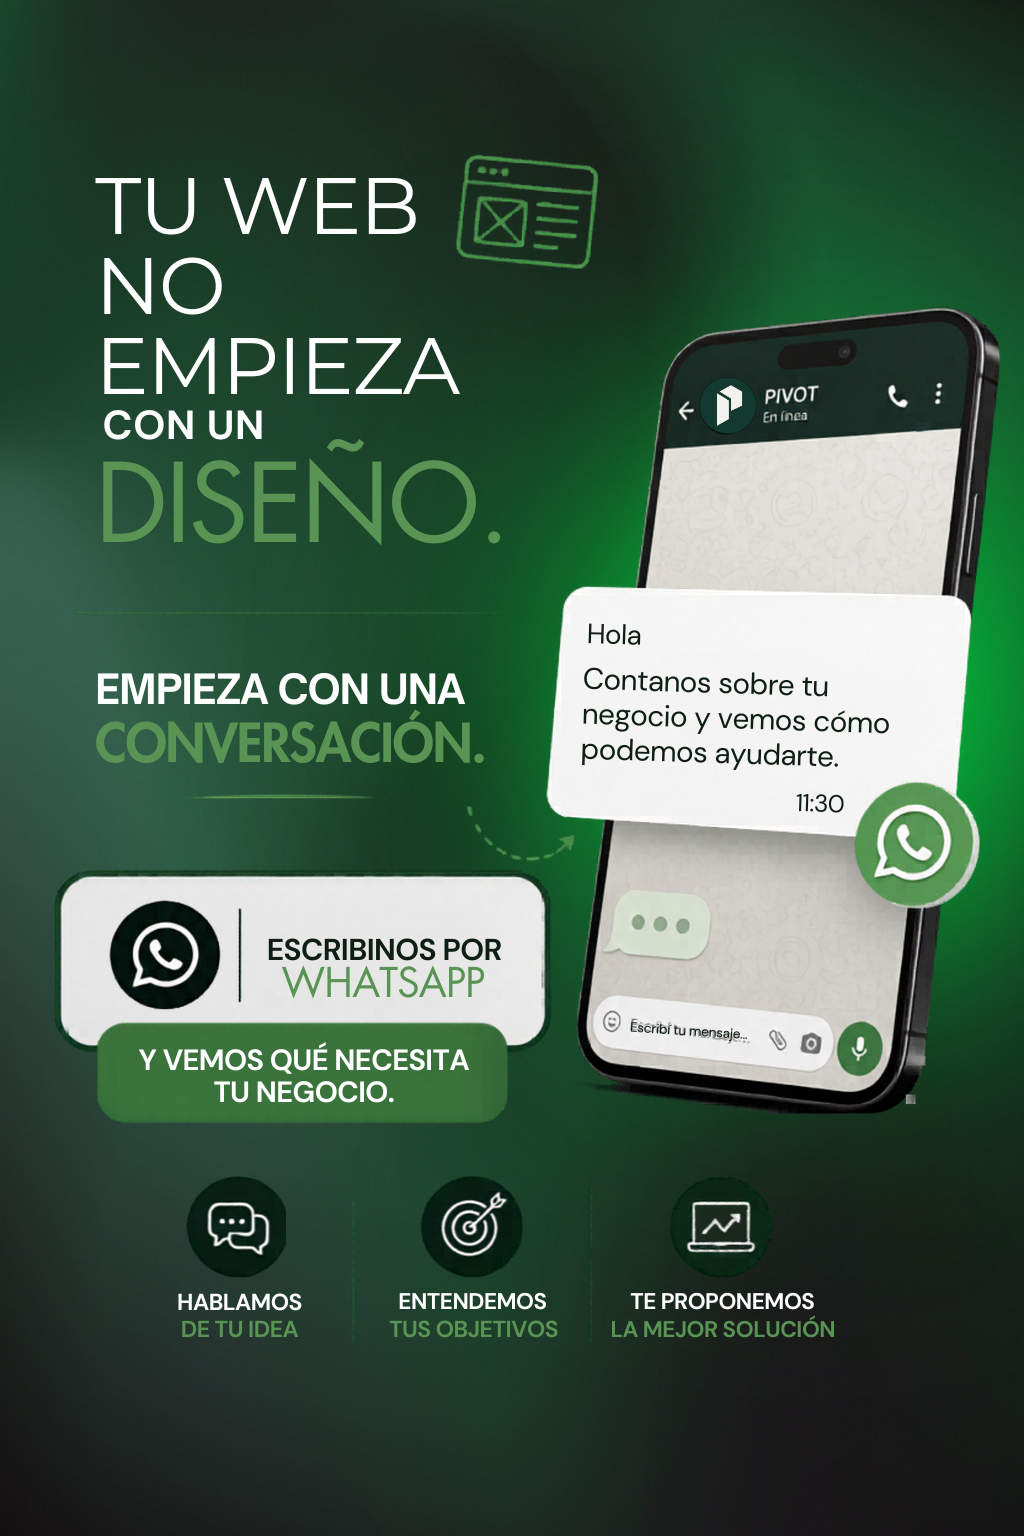
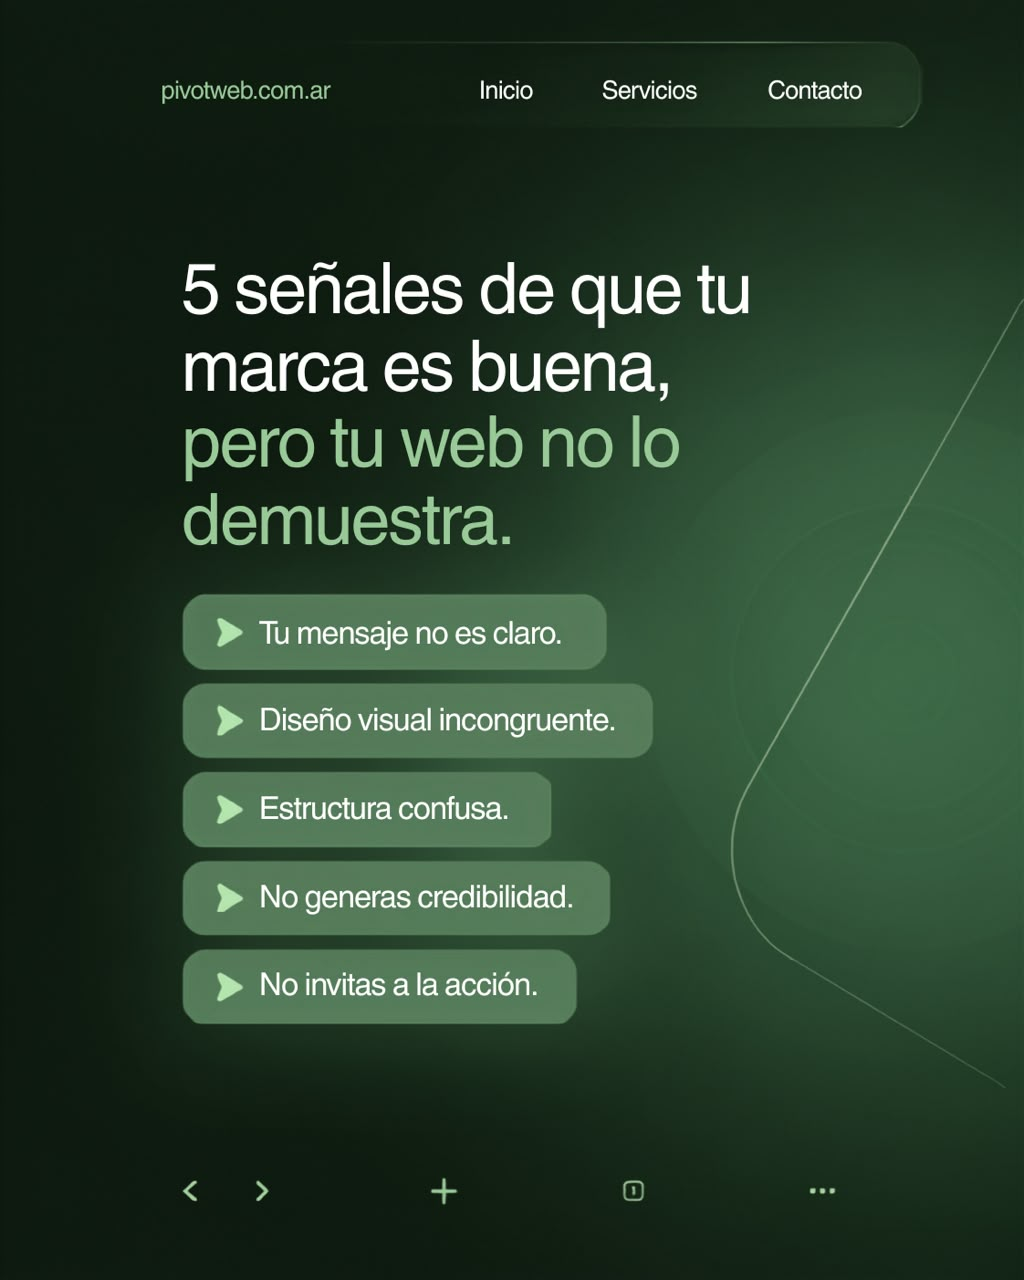
feat: add reels 4-7, unify descriptions, infinite CSS marquee, and sound controls

diff --git a/src/App.jsx b/src/App.jsx
@@ -129,6 +129,18 @@ const IcBarChart = ({size=18,style={}}) => (
     <line x1="18" y1="20" x2="18" y2="10"/><line x1="12" y1="20" x2="12" y2="4"/><line x1="6" y1="20" x2="6" y2="14"/><line x1="2" y1="20" x2="22" y2="20"/>
   </svg>
 )
+const IcVolume = ({size=18,style={}}) => (
+  <svg width={size} height={size} viewBox="0 0 24 24" fill="none" stroke="currentColor" strokeWidth="2" strokeLinecap="round" strokeLinejoin="round" style={{display:'inline-block',verticalAlign:'middle',flexShrink:0,...style}}>
+    <polygon points="11 5 6 9 2 9 2 15 6 15 11 19 11 5" fill="currentColor"/>
+    <path d="M19.07 4.93a10 10 0 0 1 0 14.14M15.54 8.46a5 5 0 0 1 0 7.07"/>
+  </svg>
+)
+const IcVolumeX = ({size=18,style={}}) => (
+  <svg width={size} height={size} viewBox="0 0 24 24" fill="none" stroke="currentColor" strokeWidth="2" strokeLinecap="round" strokeLinejoin="round" style={{display:'inline-block',verticalAlign:'middle',flexShrink:0,...style}}>
+    <polygon points="11 5 6 9 2 9 2 15 6 15 11 19 11 5" fill="currentColor"/>
+    <line x1="23" y1="9" x2="17" y2="15"/><line x1="17" y1="9" x2="23" y2="15"/>
+  </svg>
+)
 // ─────────────────────────────────────────────────────────────────────────────
 
 const REELS = [
@@ -159,24 +171,88 @@ const REELS = [
     borderColor: 'rgba(126,184,212,.28)',
     glowColor: 'rgba(126,184,212,.12)',
   },
+  {
+    src: '/reels/reel4.mp4',
+    client: 'Pampa y Oro',
+    tag: 'Venta de Mates y Accesorios · Rafaela',
+    accentVar: '#FFE082',
+    bgColor: '#1C180A',
+    borderColor: 'rgba(255,224,130,.35)',
+    glowColor: 'rgba(255,224,130,.18)',
+  },
+  {
+    src: '/reels/reel5.mp4',
+    client: 'Rey Mar',
+    tag: 'Transporte de Carga · Rafaela → Bs.As.',
+    accentVar: 'var(--rm)',
+    bgColor: '#1A0800',
+    borderColor: 'rgba(232,93,32,.35)',
+    glowColor: 'rgba(232,93,32,.18)',
+  },
+  {
+    src: '/reels/reel6.mp4',
+    client: 'PIVOT',
+    tag: 'Agencia de Desarrolladores · Rafaela',
+    accentVar: 'var(--pivot-acc)',
+    bgColor: '#061510',
+    borderColor: 'rgba(108,191,127,.3)',
+    glowColor: 'rgba(108,191,127,.15)',
+  },
+  {
+    src: '/reels/reel7.mp4',
+    client: 'PIVOT',
+    tag: 'Agencia de Desarrolladores · Rafaela',
+    accentVar: 'var(--pivot-acc)',
+    bgColor: '#061510',
+    borderColor: 'rgba(108,191,127,.3)',
+    glowColor: 'rgba(108,191,127,.15)',
+  },
 ]
+
+const DOUBLE_REELS = [...REELS, ...REELS]
 
 export default function App() {
   const [lightbox, setLightbox] = useState(null)
   const videoRefs = useRef([])
-  const [reelsPlaying, setReelsPlaying] = useState(() => REELS.map(() => false))
+  const [reelsPlaying, setReelsPlaying] = useState(() => DOUBLE_REELS.map(() => false))
+  const [isMuted, setIsMuted] = useState(true)
 
   const toggleReel = (i) => {
     const video = videoRefs.current[i]
     if (!video) return
     if (video.paused) {
-      videoRefs.current.forEach((v, j) => { if (v && j !== i) v.pause() })
-      setReelsPlaying(REELS.map((_, j) => j === i))
+      // Intentamos reproducir inmediatamente para mantener el contexto del gesto del usuario
       video.play()
+        .then(() => {
+          videoRefs.current.forEach((v, j) => { if (v && j !== i) v.pause() })
+          setReelsPlaying(DOUBLE_REELS.map((_, j) => j === i))
+        })
+        .catch(err => {
+          console.warn("Reproducción con sonido bloqueada. Reintentando silenciado:", err)
+          video.muted = true
+          setIsMuted(true)
+          video.play()
+            .then(() => {
+              videoRefs.current.forEach((v, j) => { if (v && j !== i) v.pause() })
+              setReelsPlaying(DOUBLE_REELS.map((_, j) => j === i))
+            })
+            .catch(err2 => {
+              console.error("Fallo la reproducción silenciada:", err2)
+            })
+        })
     } else {
       video.pause()
       setReelsPlaying(prev => prev.map((v, j) => j === i ? false : v))
     }
+  }
+
+  const toggleMute = (e) => {
+    e.stopPropagation()
+    const nextMuted = !isMuted
+    setIsMuted(nextMuted)
+    videoRefs.current.forEach(v => {
+      if (v) v.muted = nextMuted
+    })
   }
 
   useEffect(() => {
@@ -677,43 +753,58 @@ export default function App() {
             <span className="sec-tag" style={{color:'var(--dorado)'}}>Contenido en Video</span>
             <h2 className="sec-title" style={{color:'white'}}>Mis <em style={{color:'var(--dorado)'}}>Reels</em></h2>
           </div>
-          <div className="reels-grid fade-in">
-            {REELS.map((r, i) => (
-              <div
-                key={i}
-                className="reel-card"
-                style={{'--rc-accent': r.accentVar, '--rc-bg': r.bgColor, '--rc-border': r.borderColor, '--rc-glow': r.glowColor}}
-              >
-                <div className="reel-card-header">
-                  <div className="reel-card-bar" />
-                  <div className="reel-card-meta">
-                    <span className="reel-card-client">{r.client}</span>
-                    <span className="reel-card-tag">{r.tag}</span>
-                  </div>
-                </div>
-                <div
-                  className="reel-video-wrapper"
-                  onClick={() => toggleReel(i)}
-                >
-                  <video
-                    ref={el => { videoRefs.current[i] = el }}
-                    src={r.src}
-                    playsInline
-                    loop
-                    className="reel-video"
-                    onEnded={() => setReelsPlaying(prev => prev.map((v, j) => j === i ? false : v))}
-                  />
-                  <div className={`reel-play-overlay${reelsPlaying[i] ? ' is-playing' : ''}`}>
-                    <div className="reel-play-btn">
-                      {reelsPlaying[i]
-                        ? <svg width="20" height="20" viewBox="0 0 24 24" fill="white"><rect x="6" y="4" width="4" height="16" rx="1.5"/><rect x="14" y="4" width="4" height="16" rx="1.5"/></svg>
-                        : <svg width="20" height="20" viewBox="0 0 24 24" fill="white"><polygon points="6,3 20,12 6,21"/></svg>
-                      }
+          
+          <div className="reels-carousel-wrapper fade-in">
+            <div className="reels-carousel-container">
+              <div className={`reels-grid${reelsPlaying.some(v => v) ? ' has-video-playing' : ''}`}>
+                {DOUBLE_REELS.map((r, i) => (
+                  <div
+                    key={i}
+                    className="reel-card"
+                    style={{'--rc-accent': r.accentVar, '--rc-bg': r.bgColor, '--rc-border': r.borderColor, '--rc-glow': r.glowColor}}
+                  >
+                    <div className="reel-card-header">
+                      <div className="reel-card-bar" />
+                      <div className="reel-card-meta">
+                        <span className="reel-card-client">{r.client}</span>
+                        <span className="reel-card-tag">{r.tag}</span>
+                      </div>
+                    </div>
+                    <div
+                      className="reel-video-wrapper"
+                      onClick={() => toggleReel(i)}
+                    >
+                      <video
+                        ref={el => { videoRefs.current[i] = el }}
+                        src={r.src}
+                        playsInline
+                        loop
+                        muted={isMuted}
+                        preload="metadata"
+                        className="reel-video"
+                        onEnded={() => setReelsPlaying(prev => prev.map((v, j) => j === i ? false : v))}
+                      />
+                      <div className={`reel-play-overlay${reelsPlaying[i] ? ' is-playing' : ''}`}>
+                        <div className="reel-play-btn">
+                          {reelsPlaying[i]
+                            ? <svg width="20" height="20" viewBox="0 0 24 24" fill="white"><rect x="6" y="4" width="4" height="16" rx="1.5"/><rect x="14" y="4" width="4" height="16" rx="1.5"/></svg>
+                            : <svg width="20" height="20" viewBox="0 0 24 24" fill="white"><polygon points="6,3 20,12 6,21"/></svg>
+                          }
+                        </div>
+                      </div>
+                      <button
+                        className="reel-mute-btn"
+                        onClick={toggleMute}
+                        aria-label={isMuted ? "Activar sonido" : "Silenciar"}
+                        title={isMuted ? "Activar sonido" : "Silenciar"}
+                      >
+                        {isMuted ? <IcVolumeX size={18} /> : <IcVolume size={18} />}
+                      </button>
                     </div>
                   </div>
-                </div>
+                ))}
               </div>
-            ))}
+            </div>
           </div>
         </div>
       </section>

diff --git a/src/App.css b/src/App.css
@@ -64,8 +64,45 @@ nav { position:fixed; top:0; left:0; right:0; z-index:100; display:flex; align-i
 /* REELS */
 .reels-sec { padding:7rem 0; background:var(--vino-dark); }
 .reels-head { text-align:center; margin-bottom:4rem; }
-.reels-grid { display:grid; grid-template-columns:repeat(3,1fr); gap:2rem; justify-items:center; }
-.reel-card { background:var(--rc-bg); border:1px solid var(--rc-border); border-radius:20px; overflow:hidden; display:flex; flex-direction:column; width:100%; max-width:340px; box-shadow:0 0 60px var(--rc-glow),0 20px 50px rgba(0,0,0,.4); transition:transform .3s,box-shadow .3s; }
+.reels-carousel-wrapper {
+  position: relative;
+  width: 100%;
+}
+.reels-carousel-container {
+  overflow-x: auto;
+  scroll-behavior: smooth;
+  width: 100%;
+  padding: 3.5rem 0.5rem;
+  margin: -2rem 0;
+  scrollbar-width: none; /* Firefox */
+}
+.reels-carousel-container::-webkit-scrollbar {
+  display: none; /* Chrome, Safari */
+}
+.reels-grid {
+  display: flex;
+  width: max-content;
+  animation: marquee 30s linear infinite;
+}
+.reels-grid:hover {
+  animation-play-state: paused;
+}
+.reels-grid.has-video-playing {
+  animation-play-state: paused;
+}
+.reel-card {
+  background:var(--rc-bg);
+  border:1px solid var(--rc-border);
+  border-radius:20px;
+  overflow:hidden;
+  display:flex;
+  flex-direction:column;
+  width:320px;
+  flex-shrink:0;
+  margin-right: 2rem;
+  box-shadow:0 0 60px var(--rc-glow),0 20px 50px rgba(0,0,0,.4);
+  transition:transform .3s,box-shadow .3s;
+}
 .reel-card:hover { transform:translateY(-6px); box-shadow:0 0 80px var(--rc-glow),0 30px 60px rgba(0,0,0,.5); }
 .reel-card-header { padding:1.2rem 1.4rem 1rem; }
 .reel-card-bar { width:36px; height:3px; background:var(--rc-accent); border-radius:2px; margin-bottom:.9rem; }
@@ -79,6 +116,17 @@ nav { position:fixed; top:0; left:0; right:0; z-index:100; display:flex; align-i
 .reel-play-overlay.is-playing:hover { opacity:1; }
 .reel-play-btn { width:64px; height:64px; border-radius:50%; background:rgba(0,0,0,.48); border:2px solid rgba(255,255,255,.28); display:flex; align-items:center; justify-content:center; backdrop-filter:blur(6px); -webkit-backdrop-filter:blur(6px); transition:transform .2s,background .2s,border-color .2s; }
 .reel-video-wrapper:hover .reel-play-btn { transform:scale(1.1); background:rgba(0,0,0,.65); border-color:var(--rc-accent); }
+.reel-mute-btn { position: absolute; bottom: 15px; right: 15px; width: 40px; height: 40px; border-radius: 50%; background: rgba(0, 0, 0, 0.6); border: 1px solid rgba(255, 255, 255, 0.25); display: flex; align-items: center; justify-content: center; color: white; z-index: 10; cursor: pointer; backdrop-filter: blur(4px); -webkit-backdrop-filter: blur(4px); transition: transform 0.2s, background 0.2s, border-color 0.2s; padding: 0; outline: none; }
+.reel-mute-btn:hover { transform: scale(1.1); background: rgba(0, 0, 0, 0.85); border-color: var(--rc-accent); }
+
+@keyframes marquee {
+  0% {
+    transform: translate3d(0, 0, 0);
+  }
+  100% {
+    transform: translate3d(-50%, 0, 0);
+  }
+}
 
 /* CERTIFICACIONES */
 .cert-sec { padding:7rem 0; background: white; }
@@ -233,8 +281,7 @@ footer span { color:var(--dorado); }
   .pgrid{grid-template-columns:repeat(2,1fr)}
   .sgrid{grid-template-columns:1fr 1fr}
   .cert-grid { grid-template-columns: repeat(2, 1fr); gap: 1.2rem; }
-  .reels-grid { grid-template-columns:repeat(2,1fr); gap:1.8rem; }
-  .reel-card:last-child:nth-child(odd) { grid-column:1/-1; max-width:340px; }
+  /* El grid ahora es un carrusel flex, no requiere columnas de cuadrícula */
   .footer-inner { flex-direction:column; gap:1.5rem; text-align:center; padding:0 2rem; }
 }
 @media(max-width:580px){
@@ -259,8 +306,8 @@ footer span { color:var(--dorado); }
   .vnum { font-size: 2.5rem; }
   .ctitle { font-size: 2.2rem; }
   .container { padding: 0 1.5rem; }
-  .reels-grid { grid-template-columns:1fr; }
-  .reel-card { max-width:100%; }
+  .reel-card { width: 285px; margin-right: 1.2rem; }
+  .reels-grid { padding: 0; }
   .mbox { gap: 1px; }
   .mc { padding: 1.2rem 1rem; }
   .mn { font-size: 1.6rem; }